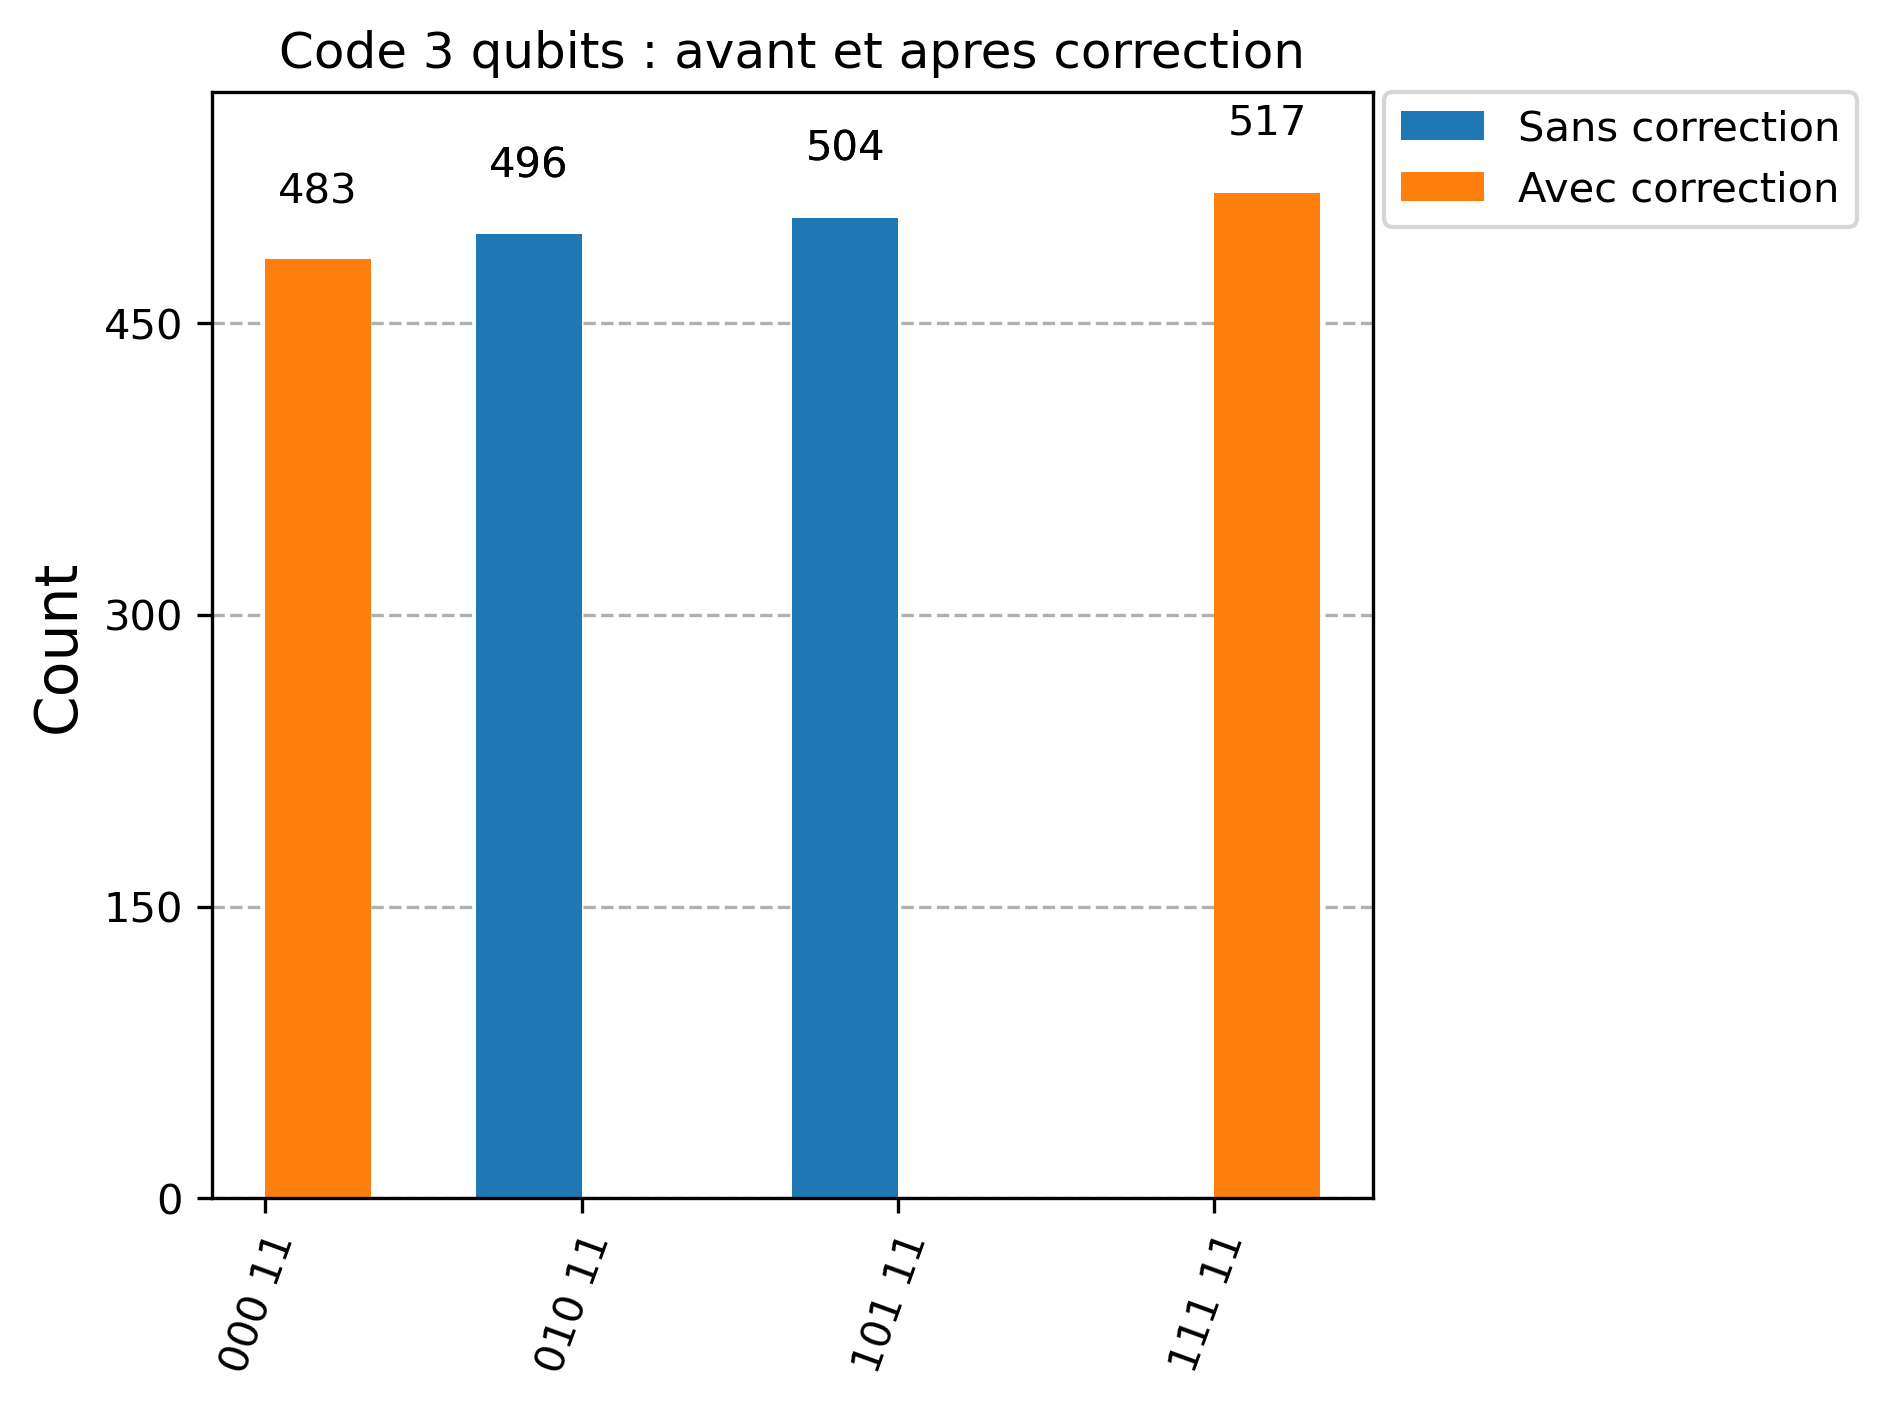
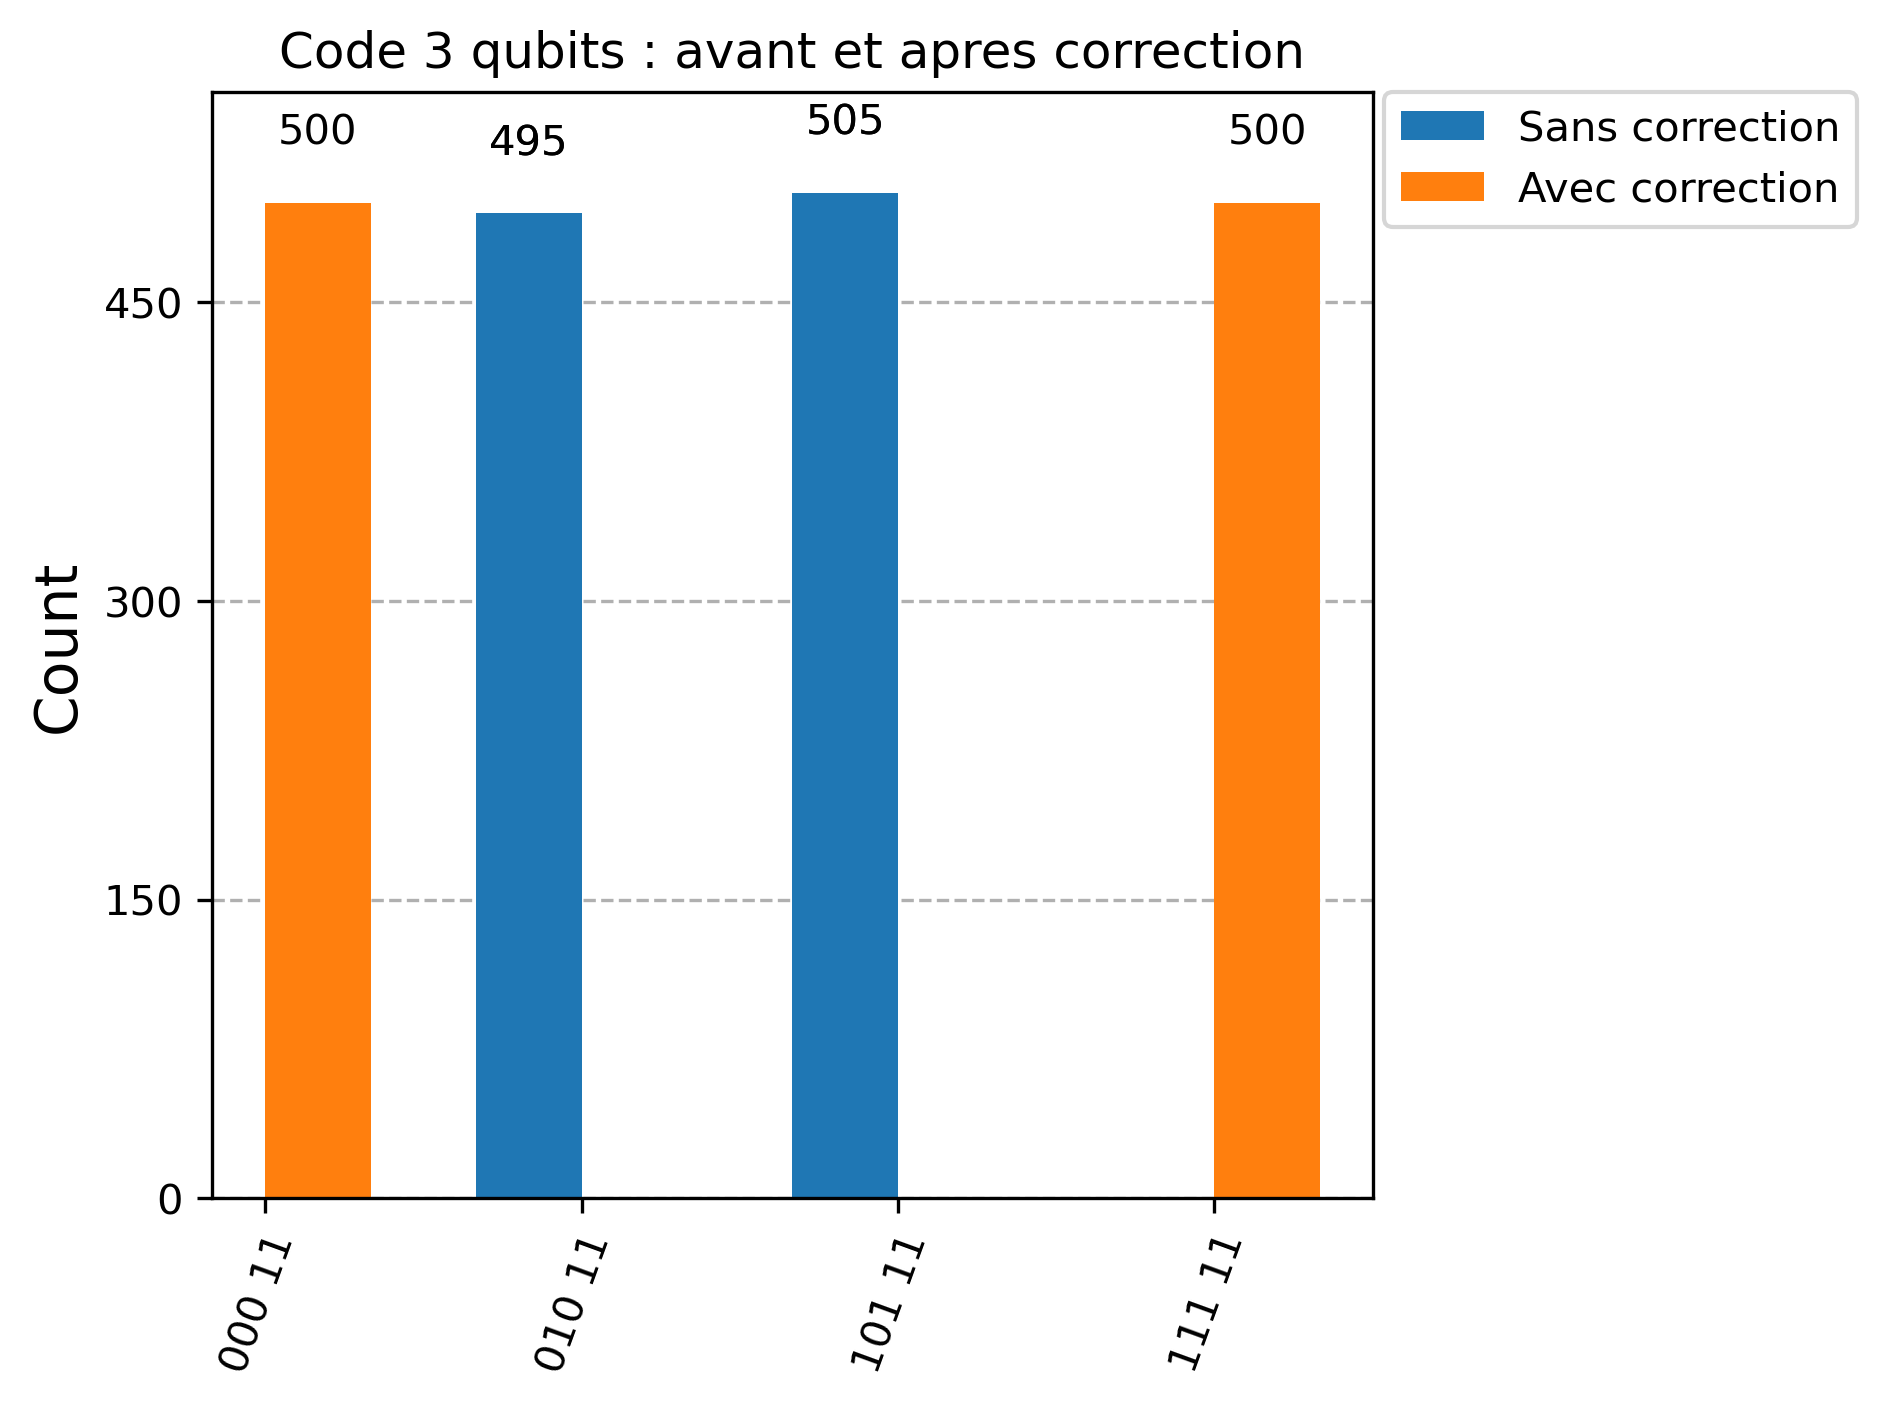
commentaire code

diff --git a/correction_simple.py b/correction_simple.py
@@ -31,7 +31,7 @@ import matplotlib.pyplot as plt
 #  REGLAGES (on peut les modifier facilement)
 # =====================================================================
 
-# Etat du qubit a proteger : "zero" -> |0> , "un" -> |1> , "superposition"
+# Etat du qubit a proteger : "zero" -> |0> , "un" -> |1> , "superposition" -> (|0> + |1>)/racine(2)
 ETAT_INITIAL = "superposition"
 
 # Sur quel qubit (0, 1 ou 2) on injecte l'erreur. 1 = celui du milieu.
@@ -50,8 +50,8 @@ def construire_circuit(avec_correction):
     Si avec_correction = False, on saute l'etape 4 (pour montrer l'erreur)."""
 
     # 3 qubits "de donnees" (le qubit logique) + 2 qubits "ancillas" (pour le syndrome)
-    q = QuantumRegister(3, "q")          # q[0], q[1], q[2] : les donnees
-    a = QuantumRegister(2, "a")          # a[0], a[1]       : les ancillas
+    q = QuantumRegister(3, "q")          # q[0], q[1], q[2] : les 3 qubits de donnees
+    a = QuantumRegister(2, "a")          # a[0], a[1]       : les 2 qubits auxiliaires (ancillas)
     syndrome = ClassicalRegister(2, "syndrome")   # ou l'on note le syndrome
     sortie = ClassicalRegister(3, "sortie")       # ou l'on note la mesure finale
     qc = QuantumCircuit(q, a, syndrome, sortie)
@@ -69,7 +69,7 @@ def construire_circuit(avec_correction):
     #   |0> devient |000>   et   |1> devient |111>
     qc.cx(q[0], q[1])                     # CNOT : q[0] controle q[1]
     qc.cx(q[0], q[2])                     # CNOT : q[0] controle q[2]
-    qc.barrier(label="encodage")
+    qc.barrier(label="encodage")        # on met une barriere pour mieux visualiser les etapes
 
     # ----- ETAPE 3 : injecter une erreur (porte X) -----
     qc.x(q[QUBIT_ERRONE])                 # une erreur inverse ce qubit
@@ -79,12 +79,12 @@ def construire_circuit(avec_correction):
     # On compare les qubits 2 a 2 SANS regarder leur valeur, grace aux ancillas.
     #   a[0] retient si q[0] et q[1] sont differents
     #   a[1] retient si q[1] et q[2] sont differents
-    qc.cx(q[0], a[0])
-    qc.cx(q[1], a[0])
-    qc.cx(q[1], a[1])
+    qc.cx(q[0], a[0]) # on compare q[0] et q[1] : a[0] = 1 si ils sont differents, 0 sinon
+    qc.cx(q[1], a[0]) 
+    qc.cx(q[1], a[1]) # on compare q[1] et q[2] : a[1] = 1 si ils sont differents, 0 sinon
     qc.cx(q[2], a[1])
-    qc.measure(a[0], syndrome[0])        # on ne mesure QUE les ancillas
-    qc.measure(a[1], syndrome[1])
+    qc.measure(a[0], syndrome[0])        # on ne mesure QUE les ancillas pour connaitre le syndrome, pas les qubits de donnees
+    qc.measure(a[1], syndrome[1])        # le syndrome est un nombre de 0 a 3 qui indique ou se trouve l'erreur
     qc.barrier(label="syndrome")
 
     # ----- ETAPE 4b : corriger selon le syndrome -----
@@ -117,17 +117,16 @@ def simuler(qc):
     simulateur = AerSimulator()
     circuit_pret = transpile(qc, simulateur)
     resultat = simulateur.run(circuit_pret, shots=NB_REPETITIONS).result()
-    return resultat.get_counts()
+    return resultat.get_counts() # nombre de fois ou chaque sortie a ete obtenue
 
 
 def afficher(titre, comptes):
     """Affiche les resultats. Chaque cle a la forme 'sortie syndrome', ex : '111 11'."""
     print(f"\n{titre}")
     for cle, n in sorted(comptes.items(), key=lambda x: x[1], reverse=True):
-        donnees, syn = cle.split(" ")
+        donnees, syn = cle.split(" ") # on separe les 3 bits de donnees (sortie) et les 2 bits du syndrome
         print(f"   qubit mesure = {donnees}   (syndrome = {syn})   "
-              f"obtenu {n} fois sur {NB_REPETITIONS}")
-
+              f"obtenu {n} fois sur {NB_REPETITIONS}") # tri du plus frequent au moins frequent
 
 # =====================================================================
 #  PROGRAMME PRINCIPAL
